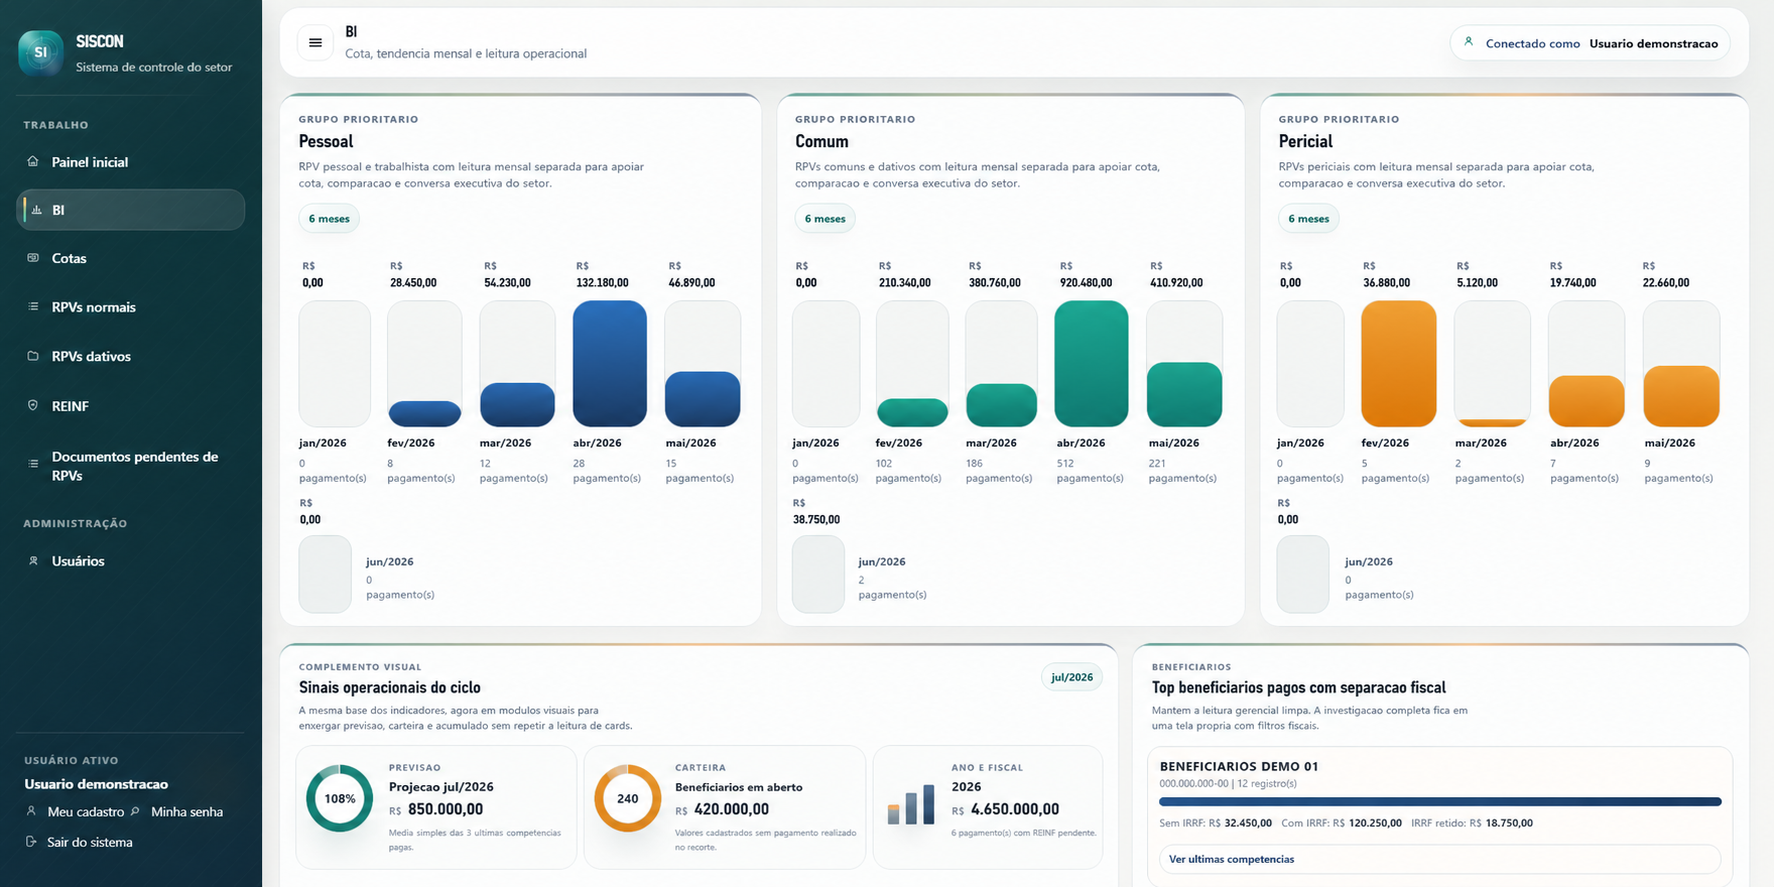
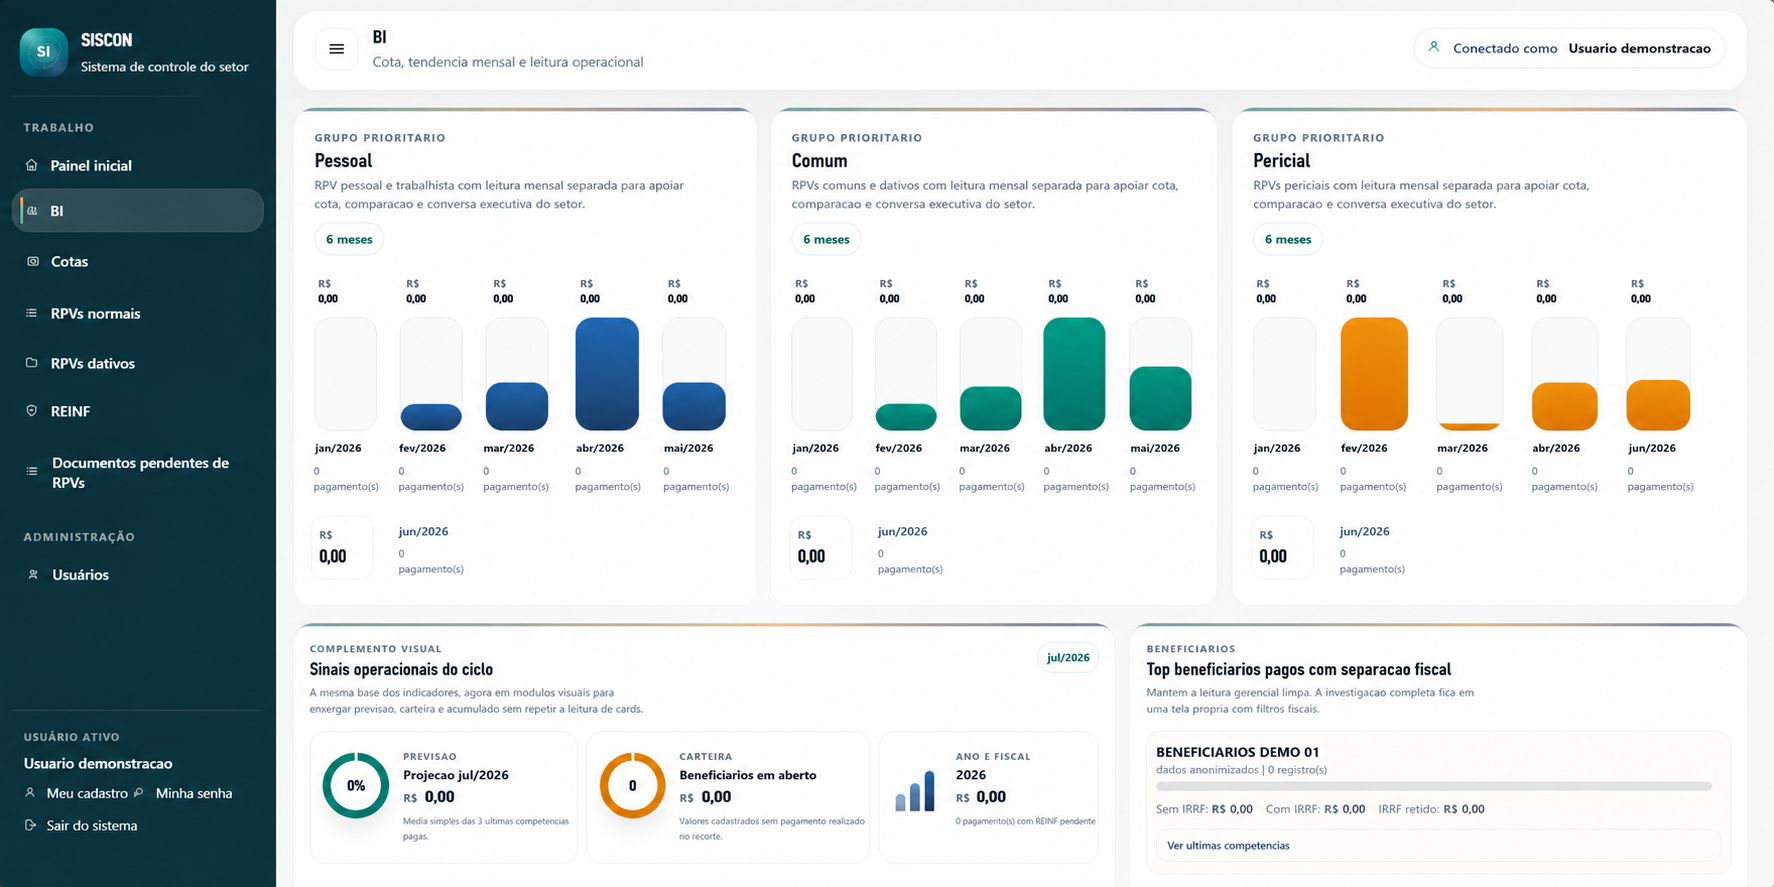
docs: harden portfolio screenshots and publication notes

diff --git a/README.md b/README.md
@@ -52,7 +52,9 @@ As capturas demonstrativas devem ficar em [`docs/screenshots/`](docs/screenshots
 Orientacao desta camada publica:
 
 - usar apenas dados anonimizados ou ficticios
+- zerar valores, contagens e KPIs quando a captura nao precisar demonstrar volume
 - ocultar nomes pessoais, documentos e identificadores internos
+- nao exibir barra do navegador, URL, hostname, query string ou caminho de rota
 - preservar o layout real da interface
 - evitar blur pesado, tarjas pretas ou edicao com cara artificial
 
@@ -62,7 +64,12 @@ Capturas recomendadas:
 2. `bi-operacional-clean.png`
 3. `cotas-clean.png`
 
-Capturas demonstrativas com dados anonimizados ou ficticios:
+Capturas demonstrativas desta copia publica:
+
+- usam dados ficticios ou anonimizados
+- trazem valores e indicadores zerados intencionalmente
+- nao exibem URL, rota real, hostname, query string ou identificador operacional interno
+- seguem uma politica conservadora de seguranca da informacao e adequacao a LGPD
 
 ### Painel inicial
 
@@ -146,6 +153,13 @@ Este repositorio deve permanecer sem:
 - `.env` real
 - certificados e chaves locais
 - material juridico, negocial ou privado
+
+As imagens publicadas nesta camada tambem devem permanecer sem:
+
+- dados pessoais reais
+- dados operacionais reais
+- identificadores internos ou documentos reais
+- rotas internas ou evidencias de infraestrutura
 
 ## Autor
 

diff --git a/docs/screenshots/README.md b/docs/screenshots/README.md
@@ -21,6 +21,7 @@ Antes de publicar, remova ou substitua:
 4. numeros de processo identificaveis
 5. valores reais sensiveis, quando necessario
 6. contagens internas que exponham volume operacional real
+7. barra do navegador, URL, hostname, query string ou caminho de rota
 
 ## Como sanitizar sem perder qualidade
 
@@ -29,7 +30,7 @@ Recomendacao:
 1. use overlays com a mesma linguagem visual da interface
 2. mantenha tipografia, espacamento e cor consistentes
 3. substitua o nome por algo como `Usuario demonstracao`
-4. substitua valores por numeros ficticios plausiveis
+4. prefira valores zerados quando a captura for apenas ilustrativa
 5. exporte em `PNG` em alta resolucao
 
 Evite:
@@ -57,4 +58,4 @@ Nomeie os arquivos assim:
 
 Quando as imagens forem adicionadas ao README, use uma observacao curta como:
 
-`Capturas demonstrativas com dados anonimizados ou ficticios.`
+`Capturas demonstrativas com dados ficticios ou anonimizados, sem URL, rota real exposta ou identificadores internos.`
